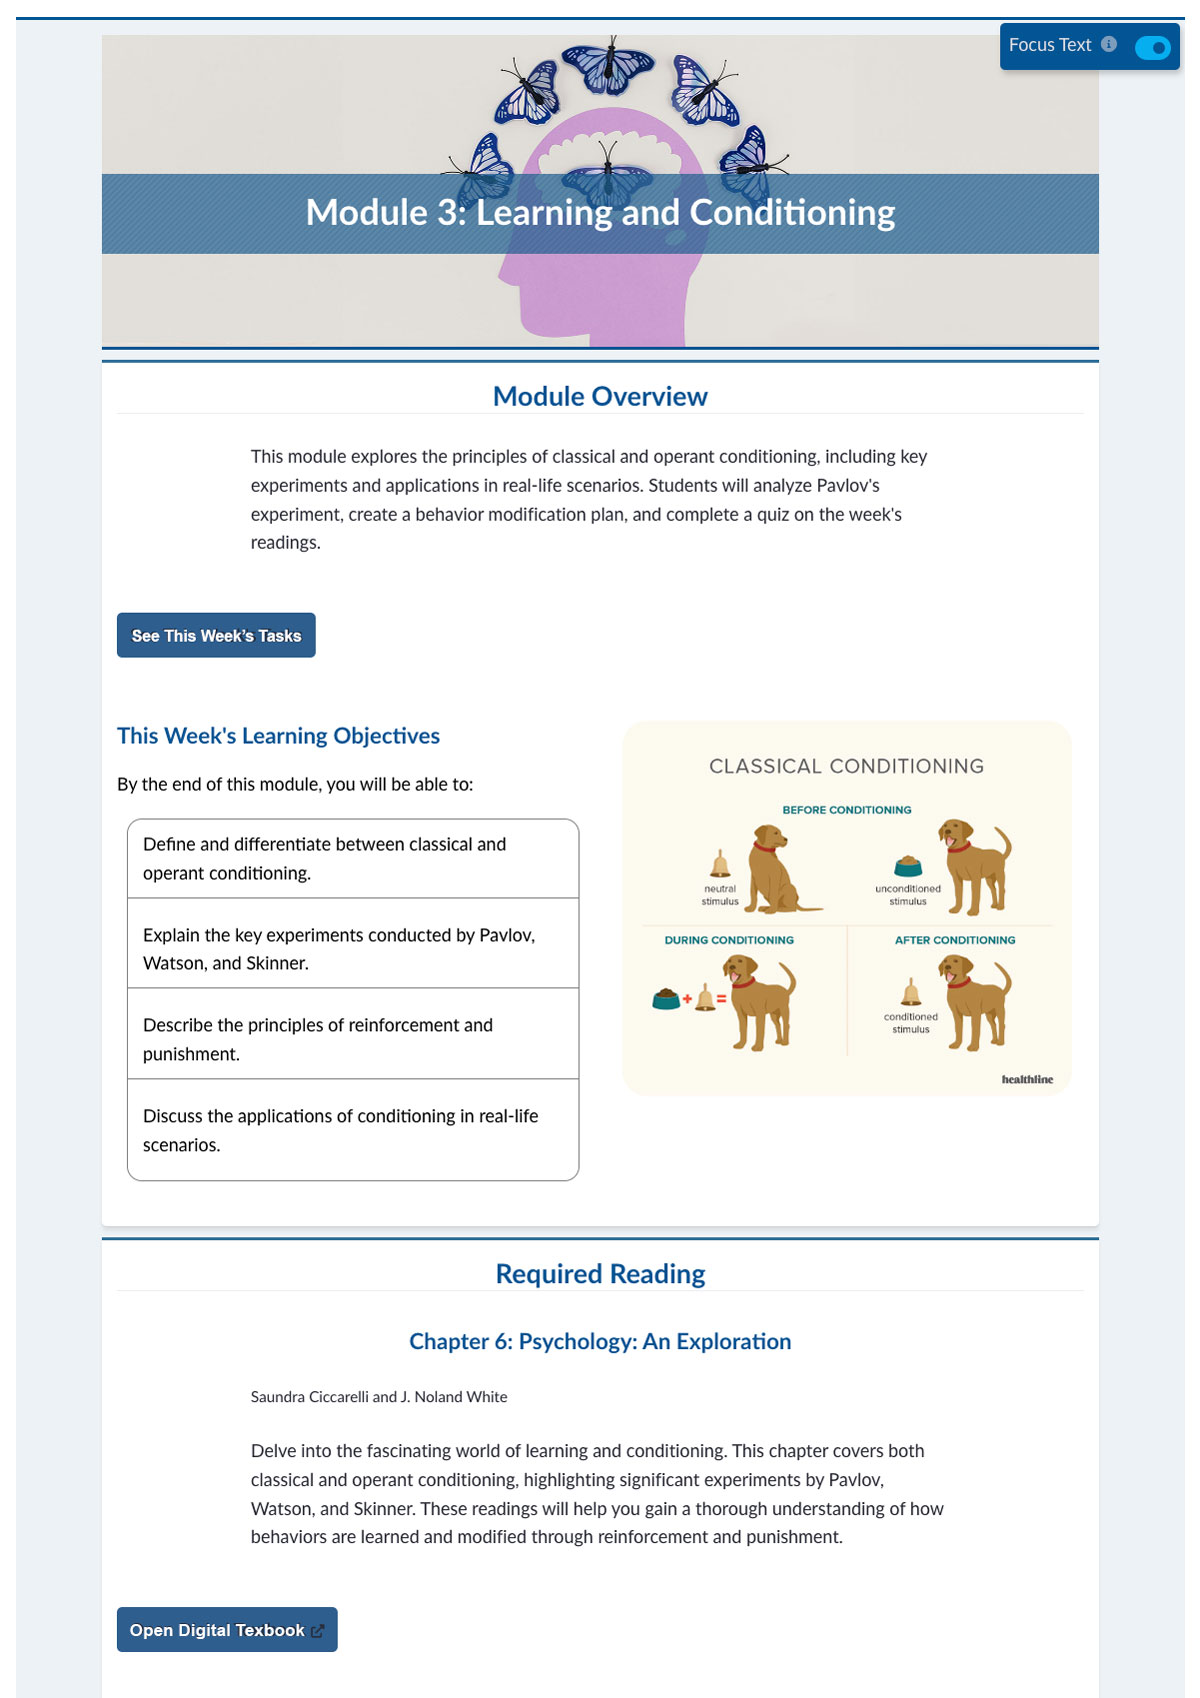
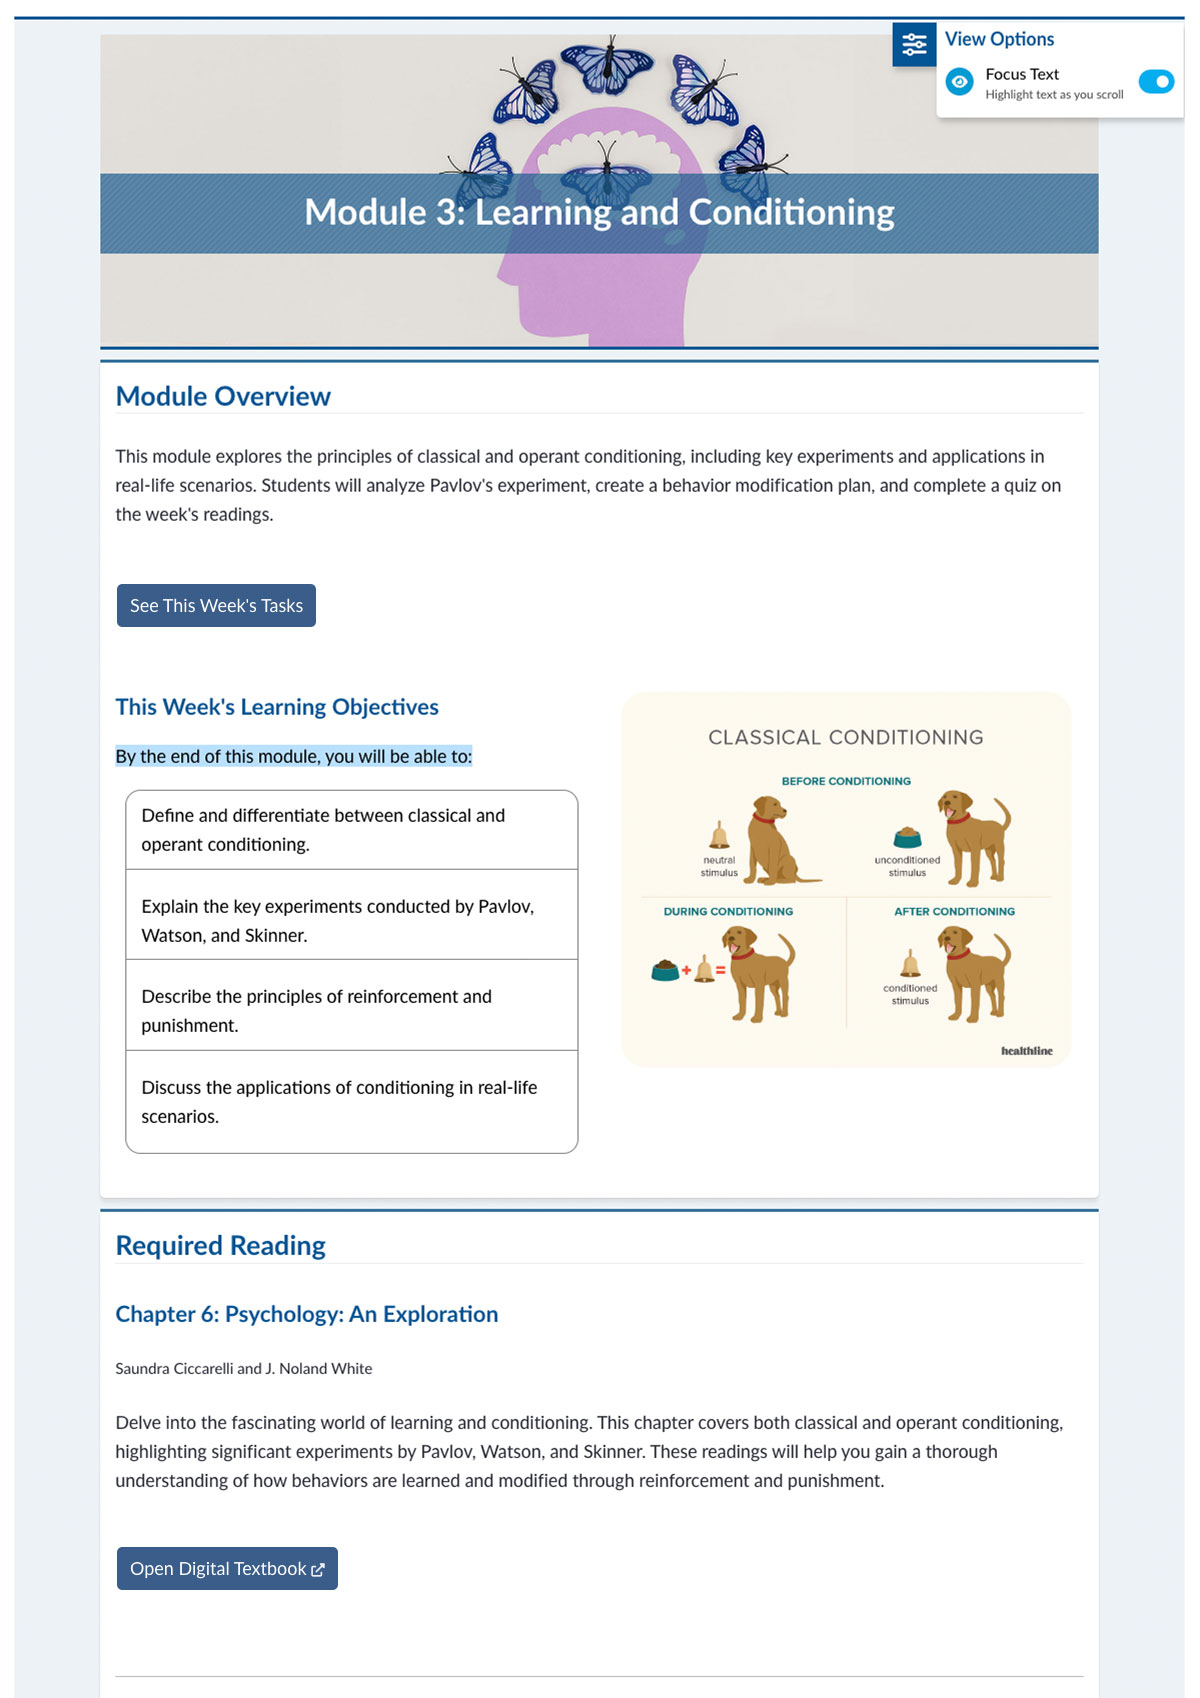
Updated focus-reader to focus-text and added description to announcement bar

diff --git a/src/components/plugins/FocusText.js b/src/components/plugins/FocusText.js
@@ -4,7 +4,7 @@ import "highlight.js/styles/night-owl.css";
 import html from "highlight.js/lib/languages/xml";
 import Image from "next/image";
 
-export default function FocusReader() {
+export default function FocusText() {
   const codeRef = useRef(null);
   const [buttonText, setButtonText] = useState("Copy code");
 
@@ -31,9 +31,9 @@ export default function FocusReader() {
 
   return (
     <>
-      <section className="wd-content" id="toc-focus-reader">
-        <h3 id="focus-reader" className="section-top anchor">Focus Reader</h3>
-        <p>Use <span className="wd-monospace">focus-reader</span> to add the focus reader view option to your course shell. This gives students the option to toggle on a view with larger line spacing and a dynamic highlighting feature.</p>
+      <section className="wd-content" id="toc-focus-text">
+        <h3 id="focus-text" className="section-top anchor">Focus Text</h3>
+        <p>Use <span className="wd-monospace">focus-text</span> to add the focus reader view option to your course shell. This gives students the option to toggle on a view with larger line spacing and a dynamic highlighting feature.</p>
         <div className="wd-visual-ex">
         <section className="wd-side-by-side">
         <div className="wd-side-by-side-item">
@@ -48,7 +48,7 @@ export default function FocusReader() {
           <div className="wd-html-code">
             <pre>
               <code className="language-html" ref={codeRef}>
-                {String.raw`<body focus-reader>`}
+                {String.raw`<body focus-text>`}
               </code>
             </pre>
           </div>

diff --git a/src/styles/_grid.css b/src/styles/_grid.css
@@ -86,13 +86,13 @@
 
 .announcement-side-by-side {
   display: flex;
-  justify-content: center!important;
-  align-items: center!important;
-  height: 100%!important;
+  justify-content: center;
+  align-items: center;
+  height: 100%;
   column-gap: 0; 
-  display: grid;
-  grid-template-columns: repeat(auto-fit, minmax(250px, 1fr));
-  vertical-align: top;
+  vertical-align: center;
+  width: fit-content;
+  padding-bottom: 10px;
 }
 
 @media screen and (max-width: 768px) {
@@ -103,25 +103,43 @@
    }
  }
 
-@media (min-width:767px) {
-  .announcement-side-by-side {
-    column-gap: 15%; 
-  }
-}
-
 .announcement-side-by-side-item {
   flex-direction: column;
   justify-content: center;
   align-items: center;
-  text-align: center;
-  padding: 5px;
+  text-align: left;
+  padding: 5px 20px;
   align-self: center;
   vertical-align: top;
 }
 
+
+.announcement-side-by-side-item.first {
+  flex-basis: 30%;
+}
+.announcement-side-by-side-item.second {
+  flex-basis: 45%;
+}
+.announcement-side-by-side-item.third {
+  flex-basis: 25%;
+  text-align: center;
+}
+
+@media (max-width:700px) {
+  .announcement-side-by-side-item.first {
+    flex-basis: 60%;
+  }
+  .announcement-side-by-side-item.second  {
+    display: none;
+  }
+  .announcement-side-by-side-item.third {
+    flex-basis: 40%;
+  }
+}
+
 .announcement-side-by-side-item > p {
   margin-bottom: 0;
-  text-align: center!important;
+  text-align: left;
 }
 
 .announcement-btn {

diff --git a/src/components/PluginsSidebar.js b/src/components/PluginsSidebar.js
@@ -9,7 +9,7 @@ export default function PluginsSidebar() {
   const router = useRouter();
 
   const sections = useRef([
-    "toc-dark-mode", "toc-focus-reader", "toc-large-text", "toc-narrow-width", "toc-custom-combos", "toc-view-options"
+    "toc-dark-mode", "toc-focus-text", "toc-large-text", "toc-narrow-width", "toc-custom-combos", "toc-view-options"
   ]);
 
   useEffect(() => {
@@ -61,8 +61,8 @@ export default function PluginsSidebar() {
             <li className={activeId === "toc-dark-mode" ? "is-current" : ""}>
               <Link href="/plugins/#dark-mode" className="toc-dark-mode">Dark Mode</Link>
             </li>
-            <li className={activeId === "toc-focus-reader" ? "is-current" : ""}>
-              <Link href="/plugins/#focus-reader" className="toc-focus-reader">Focus Reader</Link>
+            <li className={activeId === "toc-focus-text" ? "is-current" : ""}>
+              <Link href="/plugins/#focus-text" className="toc-focus-text">Focus Text</Link>
             </li>
             <li className={activeId === "toc-large-text" ? "is-current" : ""}>
               <Link href="/plugins/#large-text" className="toc-large-text">Large Text</Link>

diff --git a/src/components/Announcement.js b/src/components/Announcement.js
@@ -18,10 +18,13 @@ export default function Announcement() {
   return (
     <div className={`${styles['wd-announcement']} ${isHidden ? styles['wd-announcement-hidden'] : ''}`}>
       <section className="announcement-side-by-side">
-      <div className="announcement-side-by-side-item">
-      <p><span className="badge">New!</span> <span className="feature">View Options</span> </p> 
+      <div className="announcement-side-by-side-item first">
+      <p><span className="badge">New!</span> <span className="feature">View Options</span></p>
       </div>
-      <div className="announcement-side-by-side-item">
+      <div className="announcement-side-by-side-item second">
+      <p className="navy">An optional plugin that can be easily added to any course page to allow all or any of these features: dark-mode, large-text, narrow-width, and focus-text. </p> 
+      </div>
+      <div className="announcement-side-by-side-item third">
       <Link className="announcement-btn" href="/plugins">Learn More</Link>
         </div>
       </section>

diff --git a/src/pages/plugins.js b/src/pages/plugins.js
@@ -6,7 +6,7 @@ import "highlight.js/styles/night-owl.css";
 import html from "highlight.js/lib/languages/xml";
 import { useEffect, useRef, useState, useLayoutEffect } from "react";
 import DarkMode from "@/components/plugins/DarkMode";
-import FocusReader from "@/components/plugins/FocusReader";
+import FocusText from "@/components/plugins/FocusText";
 import LargeText from "@/components/plugins/LargeText";
 import NarrowWidth from "@/components/plugins/NarrowWidth";
 import ViewOptions from "@/components/plugins/ViewOptions";
@@ -78,7 +78,7 @@ export default function Plugins() {
           <DarkMode />
           </div>
           <div className="wd-subitems">
-          <FocusReader />
+          <FocusText />
           </div>
           <div className="wd-subitems">
           <LargeText />

diff --git a/src/styles/_styles.css b/src/styles/_styles.css
@@ -257,7 +257,7 @@ h4.layout-type {
   font-weight: 800;
   margin: 0;
   margin-left: 30px;
-  font-size: 1.2rem;
+  font-size: 1.3rem;
 }
 
 .badge {
@@ -272,6 +272,15 @@ h4.layout-type {
   letter-spacing: 1.5px;
   font-size: .8rem;
   margin: 0;
+  margin-right: 5px;
+}
+
+.navy {
+  color: var(--color-wd-primary);
+  font-size: .9rem;
+  font-weight: 700;
+  margin-top: 10px;
+  line-height: 1.3rem;
 }
 
 .wd-hero {

diff --git a/src/styles/announcements.module.css b/src/styles/announcements.module.css
@@ -7,6 +7,8 @@
   padding: 5px;
   position: absolute;
   border-radius: 0;
+  display: flex;
+  justify-content: center;
 }
 
 .wd-announcement-hidden {
